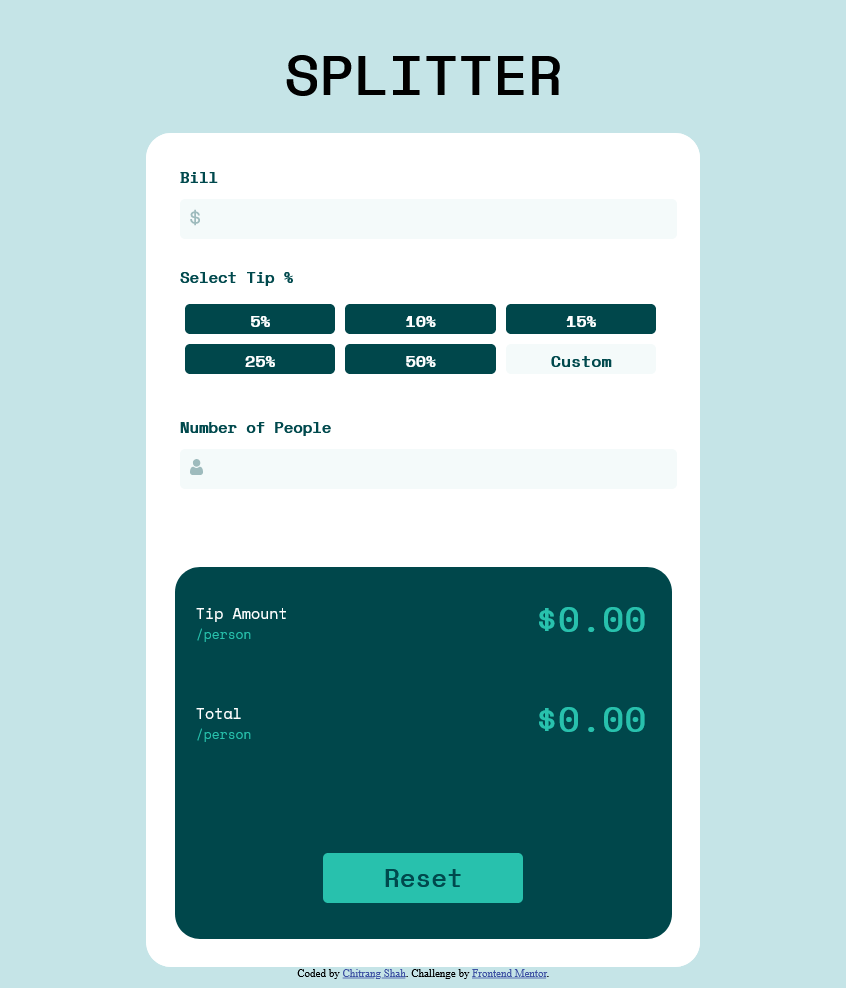
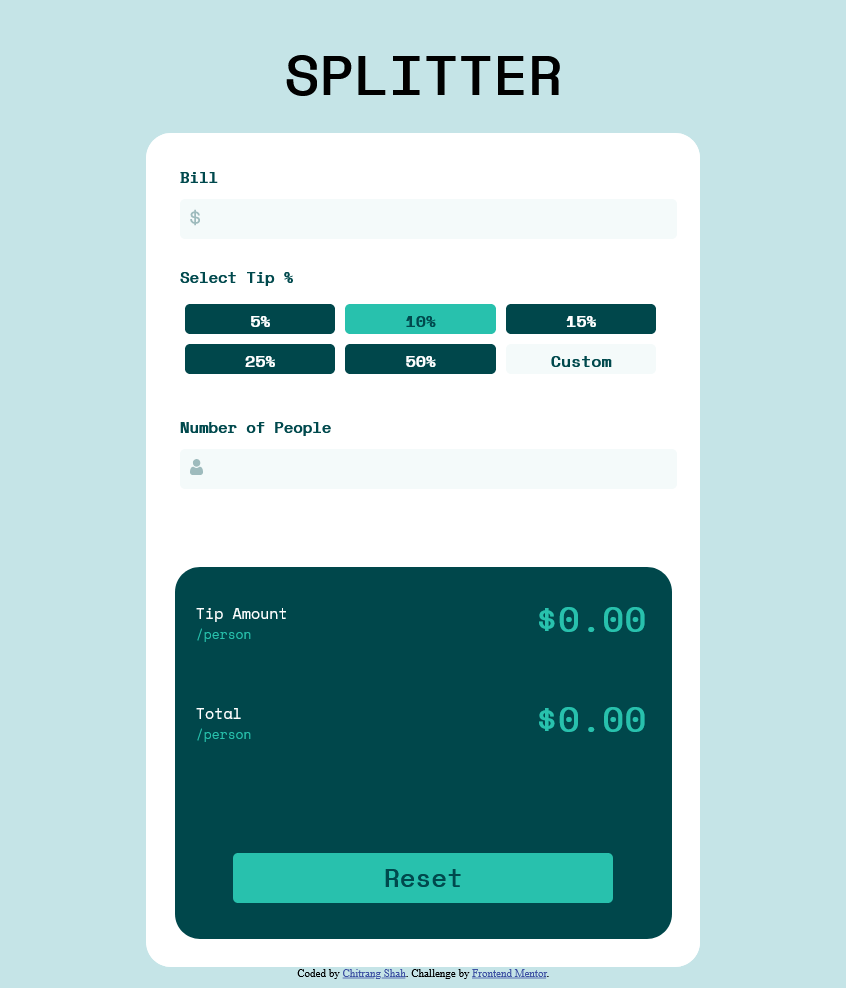
Update for Reset button

Changed region(s): [[0.3995, 0.3036, 0.5839, 0.3644], [0.6147, 0.8502, 0.7376, 0.9109], [0.2766, 0.8502, 0.3995, 0.9109]]

diff --git a/scripts/script.js b/scripts/script.js
@@ -15,6 +15,8 @@ function UpdateCalculations()
 
     $('.tipAmountWrapper .amount').html("$" + tipPerPerson.toFixed(2));
     $('.totalWrapper .amount').html("$" + totalPerPerson.toFixed(2));
+
+    $('.resetBtn').attr('disabled',false);
 }
 
 function validateFloatNumber(event)
@@ -39,7 +41,8 @@ function validateNumber(event)
 $(function ()
 {   
     UpdateCalculations();
-
+    $('.resetBtn').attr('disabled',true);
+    
     $('.TipBox').on('click',function(){
         $('.TipBox').removeClass('active-Box');
         $(this).addClass('active-Box');
@@ -77,5 +80,6 @@ $(function ()
         $('.billInput').val("");
         $('.peopleInput').val("");
         UpdateCalculations();
+        $('.resetBtn').attr('disabled',true);
     })
 });

diff --git a/style/style.css b/style/style.css
@@ -205,7 +205,7 @@ body {
 
 .resetBtn {
 	height: 50px;
-	width: 300px;
+	width: 80%;
 	background-color: #28C1AD;
 	color: hsl(183, 100%, 15%);
 	border-radius: 5px;
@@ -217,6 +217,11 @@ body {
 	display: block;
 	margin-top: 75px;
 	border-color: transparent;
+}
+
+.resetBtn:disabled
+{
+    background-color: #0D686D;
 }
 
 .attribution {
@@ -256,7 +261,6 @@ body {
     .col-s-11 {width: 91.66%;}
     .col-s-12 {width: 100%;}
 
-    .resetBtn {width: 200px;}
   }
   
   @media only screen and (min-width: 1000px) {

diff --git a/index.html b/index.html
@@ -74,7 +74,7 @@
           <div class="amount">$0.00</div>
         </div>
         <div class="resetBtnWrapper col-s-12">
-          <button class="resetBtn">Reset</button>
+          <button class="resetBtn" disabled>Reset</button>
         </div>
       </div>
     </section>

diff --git a/README.md b/README.md
@@ -53,7 +53,9 @@ Users should be able to:
 
 ### What I learned
 
-It is beneficial to create mobile first design and then move towards desktop design providing responsive styling using CSS media query.
+- It is beneficial to create mobile first design and then move towards desktop design providing responsive styling using CSS media query.
+- HTML input tag with number type allows '-' and 'e' signs by default. Disable them if not needed in project
+
 
 ### Continued development
 
